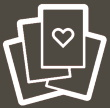
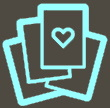
Cleaned up fonts and css. Also added some color.

diff --git a/src/scss/styles.scss b/src/scss/styles.scss
@@ -111,9 +111,6 @@ div#card-options {
   display: flex;
   width: 100%;
 }
-div.cribbage-points > span {
-    font-size: .7rem;
-}
 div.card-option {
   width: 63px;
   margin: 3px;
@@ -123,30 +120,21 @@ div.card-option:nth-last-child(1) {
 }
 div.cribbage-points {
   display: inline-block;
-  height: 100%;
+  height: inherit;
   width: 40%;
   margin-left: auto;
   text-align: left;
   vertical-align: middle;
  }
-div.cribbage-points span {
-  /*display: inline-block;*/
-	font-size: .7rem;
-  vertical-align: middle;
-  line-height: normal;
+div.cribbage-points > span {
+	font-size: .9rem;
+	line-height: 45px;
 }
 h1.cribbage-text {
-  margin: .2rem;
+  font-weight: bold;
+	margin: .2rem;
 	font-size: 1rem;
-  color: white;
-}
-h2.cribbage-text {
-  margin: 0.7rem;
-	color: white;
-}
-h3.cribbage-text {
-  color: white;
-  font-size: .7rem
+  color: $color-hover;
 }
 header.cribbage-header {
 	background-image: url("./../images/cribbage_header_small.jpg");
@@ -156,6 +144,9 @@ header.cribbage-header {
 	height: 62px;
 	text-align: center;
 	position: relative;
+}
+header > p.cribbage-text {
+	color: $color-hover;
 }
 div.icon{
 	position: absolute;
@@ -173,7 +164,7 @@ div.icon{
 img.card {
   height:77px ;
   width: 55px;
-  margin: 4px;
+  margin: 2px;
   padding: 0px;
   float: left;
 	border: 3px solid #6E6659;
@@ -189,12 +180,11 @@ img.c-card {
 img.result-card {
   height: 42px;
   width: 30px;
-  margin-right: 5px;
-  margin-bottom: 5px;
+  margin: 2px;
   float: left;
 }
 label.cribbage-checkbox {
-    font-size: .7rem;
+    font-size: .9rem;
     font-weight: normal;
 }
 p.cribbage-text {
@@ -259,9 +249,6 @@ select.custom-select:hover {
 		margin: 0.4rem;
 		font-size: 1.5rem;
   }
-  h3.cribbage-text {
-    font-size: 1.3rem;
-  }
 	header.cribbage-header {
 		background-image: url("./../images/cribbage_header_medium.jpg");
 		background-repeat: no-repeat;
@@ -293,13 +280,11 @@ select.custom-select:hover {
   img.result-card {
     height: 67px;
     width: 48px;
-    margin-right: 6px;
-    margin-bottom: 6px;
+    margin: 3px;
   }
 	label.cribbage-checkbox {
-    font-size: .8rem;
+    font-size: .9rem;
     font-weight: normal;
-
   }
 	p.cribbage-text {
 	  margin: 1rem;
@@ -310,11 +295,10 @@ select.custom-select:hover {
     width: 96px;
     font-size: .7rem;
   }
-  span.cribbage-points  span {
-			font-size: .9rem;
-			background: red;
-			font-size: 10rem;
-  }
+	div.cribbage-points > span {
+		font-size: .9rem;
+		line-height: 64px;
+	}
 }
 
 /* #### Desktops #### */
@@ -335,17 +319,15 @@ select.custom-select:hover {
 	 	border-radius: 10px;
 	}
 	div.cribbage-points > span {
-      font-size: 1rem;
-  }
-  div.card-option {
+		font-size: 1rem;
+		line-height: 75px;
+	}
+	div.card-option {
     width: 134px;
   }
 	h1.cribbage-text {
     margin: .9rem;
 		font-size: 2rem;
-  }
-  h3.cribbage-text {
-    font-size: 1.7rem;
   }
 	header.cribbage-header {
 		background-image: url("./../images/cribbage_header_large.jpg");
@@ -376,16 +358,15 @@ select.custom-select:hover {
   img.result-card {
     height: 90px;
     width: 64px;
-    margin-right: 2px;
-    margin-bottom: 2px;
+    margin: 2px;
   }
 	label.cribbage-checkbox {
-    font-size: 1rem;
+    font-size: 1.2rem;
     font-weight: normal;
   }
 	p.cribbage-text {
 	  margin: 1.5rem;
-		font-size: .9rem;
+		font-size: 1.2rem;
 	  color: white;
 	}
 	select.custom-select {
